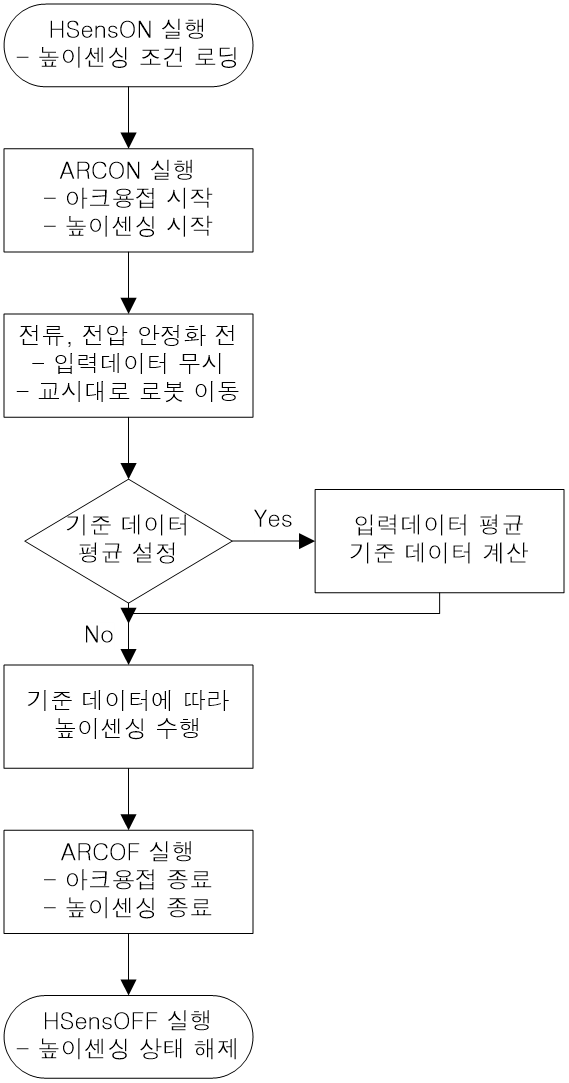
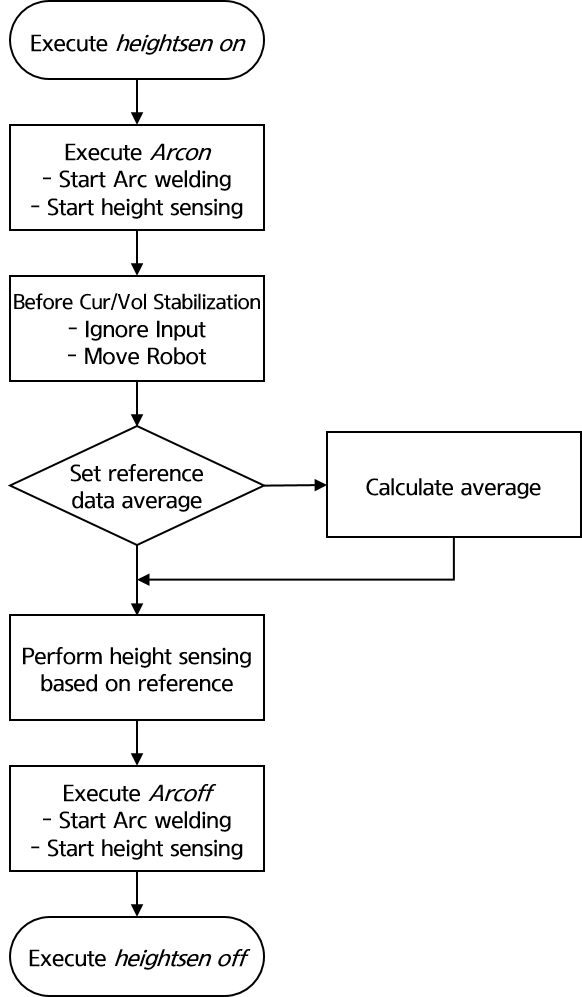
(Feat) 8.4 영문 번역

Changed region(s): [[0.0, 0.0, 1.0, 1.0]]

diff --git a/8_Application_function/4_Height_sensing/1_hsen_condition.md b/8_Application_function/4_Height_sensing/1_hsen_condition.md
@@ -1,52 +1,79 @@
-# 8.4.1 높이센싱 조건
+# 8.4.1 Height Sensing Condition
 
-```heightsen on,cnd= ``` 명령어에서 [**속성**] 키를 눌러 『높이센싱 조건』설정화면으로 진입합니다. 조건설정 화면은 아래 그림과 같습니다.
 
+Press the **[Property]** key in the `heightsen` command to access the "Heigth Sensing Condition" settings screen. The condition settings screen is shown below.
  
 <p align="center">
  <img src="../../_assets/8_4_2.png" width="70%"></img>
- <em><p align="center">그림 8.4.2. 높이센싱 조건 대화상자</p></em>
+ <em><p align="center">Figure 8.4.2. Height Sensing Condition Dialog Box</p></em>
 </p>
 
 ---
 
-각 항목별 설정 및 조작방법은 다음과 같습니다.
+Each item's settings and operations are as follows:
 
-### (1)	조건번호: [1 ~ 8]  
-    높이센싱 조건번호를 설정합니다.
+### (1) Condition Number: [1 ~ 8]
 
-### (2)	높이 센싱 용 입력데이터 종류  
-    입력데이터 종류를 표시합니다. GMAW 는 용접 전류를 TIG 용접은 용접 전압을 사용합니다.
+Set the height sensing condition number.
 
-### (3)	기준 데이터 설정 방법: <평균 입력 데이터, 사용자 입력 데이터>  
-    기준 데이터를 설정하는 방법을 선택합니다.
--	평균 입력 데이터: 센싱 초반 기준데이터 평균값을 기준으로 설정
--	사용자 입력데이터: 사용자가 기준데이터를 직접 입력
 
-### (4)	입력 데이터 무시 시간: [0.0 ~ 5.0]  
-    용접 초기의 불안정한 상태에서 입력 신호를 무시하는 시간입니다. ‘평균 입력 데이터’로 기준데이터를 설정하는 경우 이 시간 지정된 시간동안 평균값으로 기준값을 계산합니다. ‘사용자 입력 데이터’를 기준으로 사용하는 경우 바로 높이센싱이 동작합니다.
+### (2) Type of Input Data
 
-### (5)	입력 데이터 평균시간: [0.5 ~ 10.0]  
-    센싱 기준 데이터를 계산하기 위해 입력 데이터 평균을 계산하는 시간을 설정합니다. 기준 데이터 설정 방법에서 ‘평균 입력 데이터’를 선택하는 경우 표시됩니다. 정확한 기준 높이 산정이 안 되어 있는 경우
+Displays the type of input data. For GMAW, welding current is used, while for TIG welding, welding voltage is used.
 
-### (6)	입력 데이터 무시 시간: [0.0 ~ 5.0]  
-    용접 초기의 불안정한 상태에서 입력 신호를 무시하는 시간입니다. ‘평균 입력 데이터’로 기준데이터를 설정하는 경우 이 항목이 표시됩니다. 이 시간 지정된 시간동안 평균값으로 기준값을 계산합니다. 
 
-### (7)	기준 데이터 설정: [-500.0 ~ 500.0]  
-    높이센싱의 기준값을 사용자가 직접 입력하는 항목입니다. ‘사용자 입력 데이터’로 기준데이터를 설정하는 경우 이 항목이 표시됩니다.
+### (3) Reference Data Setting: <Average Input Data, User Input Data>
 
-### (8)	높이 센싱 계수: [-100.0 ~ 100.0]  
-    입력된 데이터 차이에 대비되는 거리 계수입니다. 이 값이 작아지면 입력 데이터에 따른 추종량이 작아져서 부드럽게 추종합니다. 이 값이 커지면 추종이 빨라지지만 궤적 상 상하 진동이 발생할 수 있습니다.
+Choose the method for setting the reference data.
+- Average Input Data : Set the reference data based on the average value of the sensing initial reference data.
+- User Input Data : Allow the user to directly enter the reference data.
 
-### (9)	센싱에 의한 추종속도 제한값: [0.1 ~ 10.0]  
-    1초동안 센싱으로 추종하는 최대값을 설정합니다. 이 값이 작아지면 추종이 부드러워지며 커지면 추종이 빨라집니다.
 
-### (10) 노이즈 민감도  
-    입력 데이터의 노이즈에 대한 민감도를 설정합니다. 비활성화 되어 있는 경우 지원하지 않는 버전입니다.
+### (4) Input Data Ignore Time: [0.0 ~ 5.0]
 
-### (11) 추종오차 적분 계수: [0.0 ~ 10.0]
-    높이 센싱의 추종 성능 중 지속적인 에러값에 대한 보정량을 설정합니다. 0보다 큰 값이 설정되면 추종 성능이 향상되지만 지나치게 커지면 궤적 진동이 발생합니다. 아주 작은 값부터 적용하여 현장에 적정한 값을 선정하십시오.
+The time to ignore signals during the unstable initial welding state.
+If setting reference data with "Average Input Data", this time is used to calculate the reference value using the average over the specified time.
+If using "User Input data", height sensing begins immediately.
 
+
+### (5) Input Data Average Time: [0.5 ~ 10.0]
+
+Set the time to average the input data to calculate the sensing reference data.
+This item appears when "Average Input Data" is selected for the reference data setting method.
+(if the accurate reference height is not yet determined)
+
+
+### (6) Reference Data Setting: [-500.0 ~ 500.0]
+
+This is the item where the user directly enters the height sensing reference value. This item appears when "User Input Data" is selected for setting the reference data.
+
+
+### (7) Sensing Coefficient: [-100.0 ~ 100.0]
+
+This is the distance coefficient corresponding to the difference in the input data. A smaller value results in smoother tracking with less responsiveness to input data, while a larger value increases tracking speed but may cause oscillations along the trajectory.
+
+
+### (8) Tracking Speed Limit: [0.1 ~ 10.0]
+
+This sets the maximum tracking value per second based on sensing. A smaller value results in smoother tracking, while a larger value speeds up tracking.
+
+
+<!-- ### (10) 노이즈 민감도  
+    입력 데이터의 노이즈에 대한 민감도를 설정합니다. 비활성화 되어 있는 경우 지원하지 않는 버전입니다. -->
+
+### (9) Tracking Limit Distance: [-300.0 ~ 0.0] ~ [0.0 ~ 200.0]
+
+This sets the total tracking distance limit for height sensing.
+
+
+### (10) Integral Coefficient for Error: [0.00 ~ 10.00]
+
+This sets the correction amount for continuous error values in height sensing performance.
+Setting a value greater than 0 improves tracking performance, but if the value is too large, oscillations in the trajectory may occur.
+Start with a very small value and gradually adjust it to an appropriate setting for the field.
+
+
+<!-- 
 ### (12) 초기 기준 데이터: [-500.0 ~ 500.0]
     용접 초반에 별도의 기준 데이터를 적용하려고 할 때 설정합니다. 입력 데이터 무시 시간이 지난 후 ‘초기설정된 시기준 데이터 적용 시간’에서 설정된 시간동안 이 기준 데이터를 이용하여 높이 센싱이 수행됩니다.
 
@@ -67,4 +94,4 @@
     초당 추종 거리 제한치를 설정합니다. 이 값은 로봇의 급격한 추종을 제한하기 위하여 설정합니다. 이 값이 크면 추종 속도가 증가하고 진동이 발생할 수 있습니다. 이 값이 작으면 로봇의 추종가능 거리가 감소하지만 진동이 작아집니다. 
 
 ### (18) 높이 센싱 범위: [-300.0 ~ 0.0], [0.0 ~ 200.0]  
-    높이센싱의 총 추종거리 제한치를 설정합니다.
+    높이센싱의 총 추종거리 제한치를 설정합니다. -->

diff --git a/8_Application_function/4_Height_sensing/README.md b/8_Application_function/4_Height_sensing/README.md
@@ -1,42 +1,46 @@
-# 8.4 높이센싱(Height Sensing) 기능
+# 8.4 Height Sensing
 
-본 기능은 TIG 용접과 같이 로봇의 툴이 작업물에서 일정한 거리를 유지해야 하는 경우에 사용하는 기능입니다. TIG 용접의 경우에는 높이가 Arc길이와 비례하므로 AVC(Arc Voltage Control)기능이라고 합니다. 작업물과의 거리는 센서에 의한 아날로그 전압입력, 용접기에서 감지하는 Arc 길이 보정용 파라미터, 용접 전류나 전압 값에 의해 조정됩니다.
+
+This function is used in cases where the robot tool needs to maintain a constant distance from the workpiece, such as TIG welding. In TIG welding, the height is proportional to the arc length, which is why this function is called Arc Voltage Control(AVC). The distance from the workpiece is adjusted by the analog voltage input from the sensor, a correction parameter for the Arc length detected by the welder, and the welding current or voltage values.
 
 본 기능의 사용을 위해서는 센싱 기능을 위한 데이터 입력 설정을 ‘유효’로 선택해야 합니다.
-센싱 기능을 위한 데이터 입력 설정의 세부 내용은 ‘1.3 Arc 용접 응용 조건 설정’을 참고하여 주십시오.
+센싱 기능을 위한 데이터 입력 설정의 세부 내용은 ‘1.3 Arc 용접 응용 조건 설정’을 참고하여 주십시오.  -- ????
 
-센싱 기능용 입력데이터의 설정이 완료된 후에는 하기와 같은 절차를 통하여 높이센싱 기능을 사용할 수 있습니다.
+Once the setup for the sensing function input data is complete, the height sensing function can be used through the following procedure.
 
-(1)	명령어 입력
+### (1) Command
 
-높이센싱 시작을 위해서 heightsen on, cnd=1 명령을 사용합니다. 명령어에는 뒤에는 조건번호를 입력합니다. 높이센싱 조건은 총 8개가 있습니다.
-높이센싱 종료를 위해서 heightsen off 명령을 사용합니다. 종료 명령어는 특별히 인수를 필요로 하지 않습니다.
+To start height sensing, use the command `height on, cnd=1`.
+The command is followed by the condition number. There are a total of 8 height sensing conditions.
+To stop height sensing, use the command `height off`.
+The stop command does not require any additional arguments.
 
-높이센싱용 명령어가 입력된 작업프로그램의 예시는 다음과 같습니다.
+An example of a job program with height sensing commands is as follows:
 
 ```python
     S1   move L,spd=100%,accu=1,tool=0
     S2   move L,spd=20%,accu=1,tool=0
     S3   move L,spd=100mm/s,accu=1,tool=0
-         heightsen on, cnd=1		  # 높이센싱 시작
-         arcon cnd=2		       # Arc 용접 시작
+         heightsen on, cnd=1		  # Start height sensing
+         arcon cnd=2		       # Start Arc welding
     S4   move L,spd=10mm/s,accu=1,tool=0
-         arcoff			       # Arc 용접 종료
-         heigghtsen off			  # 높이센싱 종료
+         arcoff			       # End Arc welding
+         heigghtsen off			  # End height sensing
     S5   move L,spd=20%,accu=1,tool=0
          END 
 ```
 
-(2)	높이센싱기능 동작순서
+### (2) Height Sensing Function Operation Sequence
 
-높이센싱은 명령어 실행 후 ```arcon``` 명령어가 실행되면 동작하기 시작합니다. 일반적으로 용접 초기에는 전류, 전압이 안정화되지 않은 상태이므로 안정화 될 때까지는 입력데이터를 무시합니다. 이후 입력데이터가 안정화되면 기준데이터 설정방식에 따라 평균을 계산합니다. 사용자가 기준데이터를 입력하는 방식인 경우는 바로 높이센싱을 수행하게 됩니다.
+Height sensing begins after the ```arcon``` command is executed. Since the current and voltage are typically unstable at the start of welding, the input data is ignored until they stabilize.
+Once the input data stabilizes, the average is calculated based on the method of setting the reference data. If the user manually enters the reference data, height sensing is performed immediately.  
 
- 
-높이센싱의 동작 순서는 다음과 같습니다.
+The opration sequence of height sensing is as follows:
+
 
  
 <p align="center">
  <img src="../../_assets/8_4_1.png" width="40%"></img>
- <em><p align="center">그림 8.4.1. 높이센싱 기능 동작 순서</p></em>
+ <em><p align="center">Figure 8.4.1. Height Sensing Function Operation Sequence</p></em>
 </p>
 

diff --git a/6_Weaving_function/1_Weaving_function/README.md b/6_Weaving_function/1_Weaving_function/README.md
@@ -1,3 +1,3 @@
-# 6.1 위빙 기능
+# 6.1 Weaving Functions
 
-위빙 기능은 Arc 용접에서 용접비드 폭을 넓게 하기 위하여 사용하는 기능입니다. 위빙 기능의 세부사항은 위빙조건과 참조점으로 결정됩니다. 위빙조건에서는 다음과 같은 사항을 설정할 수 있습니다.
+The weaving function is used in arc welding to widen the weld bead width. The details of the weaving function are determined by the weaving conditions and reference points. The following settings can be configured in the weaving conditions.  
